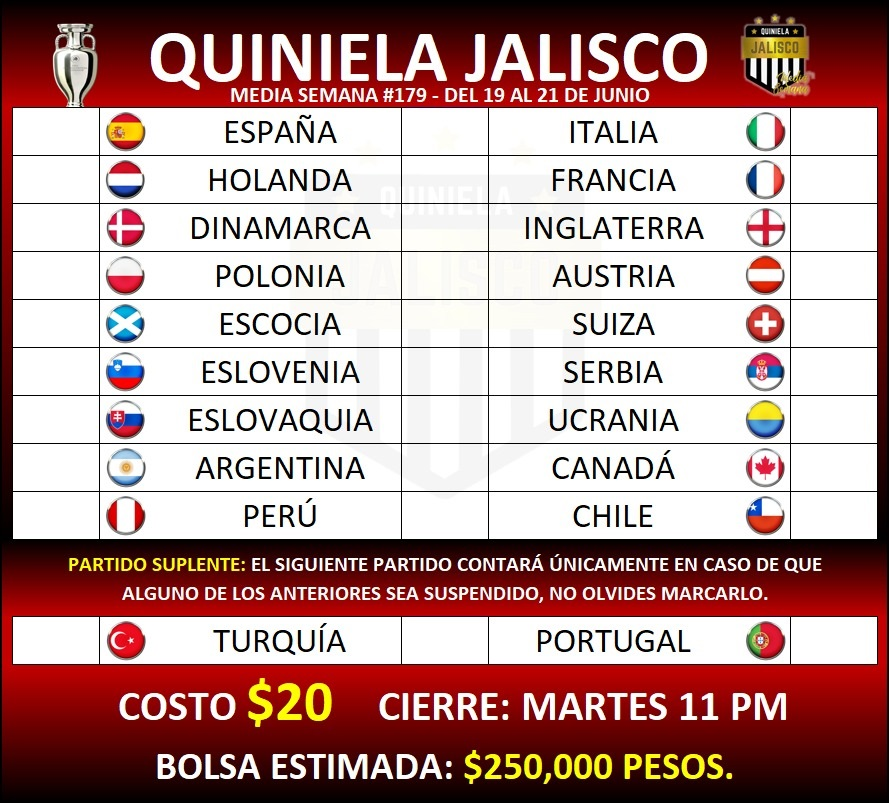
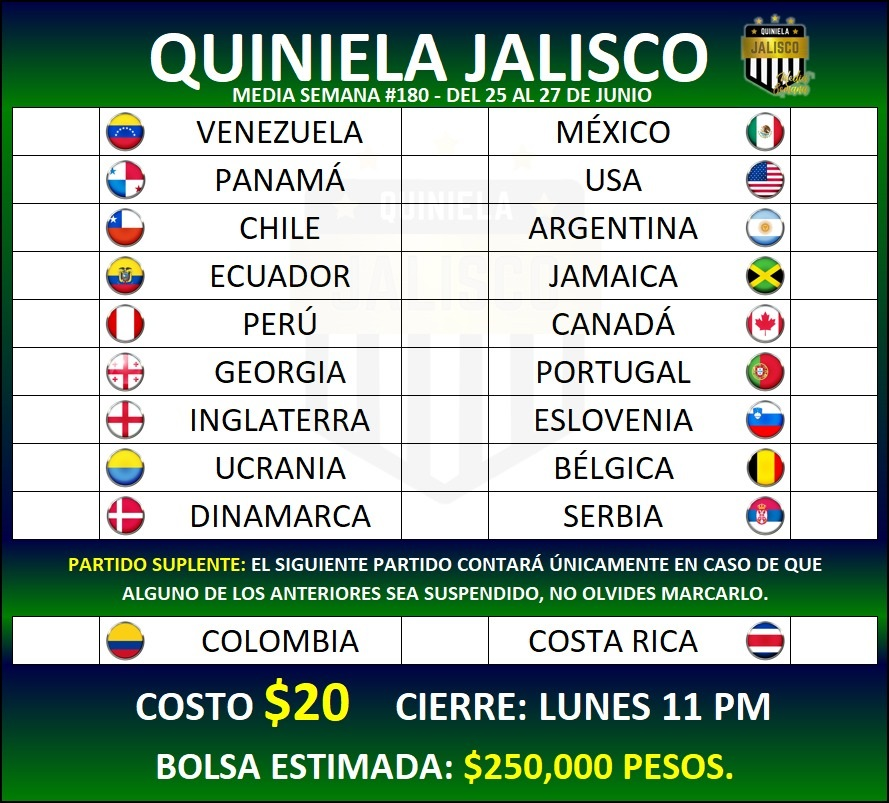
Media Semana #180

diff --git a/MediaSemana/stylesmSusp.css b/MediaSemana/stylesmSusp.css
@@ -94,8 +94,8 @@ body{
     margin-top: 9%;
     border: solid 1px black;
     border-radius: 0 0 14px 14px;
-    background: -webkit-linear-gradient(0.5turn, rgb(92 0 1), rgb(28 1 0) 80%);
-    background: linear-gradient(0.5turn, rgb(92 0 1), rgb(28 1 0) 80%);
+    background: -webkit-linear-gradient(0.5turn, rgb(0 64 34), rgb(0 13 63) 80%);
+    background: linear-gradient(0.5turn, rgb(0 64 34), rgb(0 13 63) 80%);
 }
 
 .text-lg{
